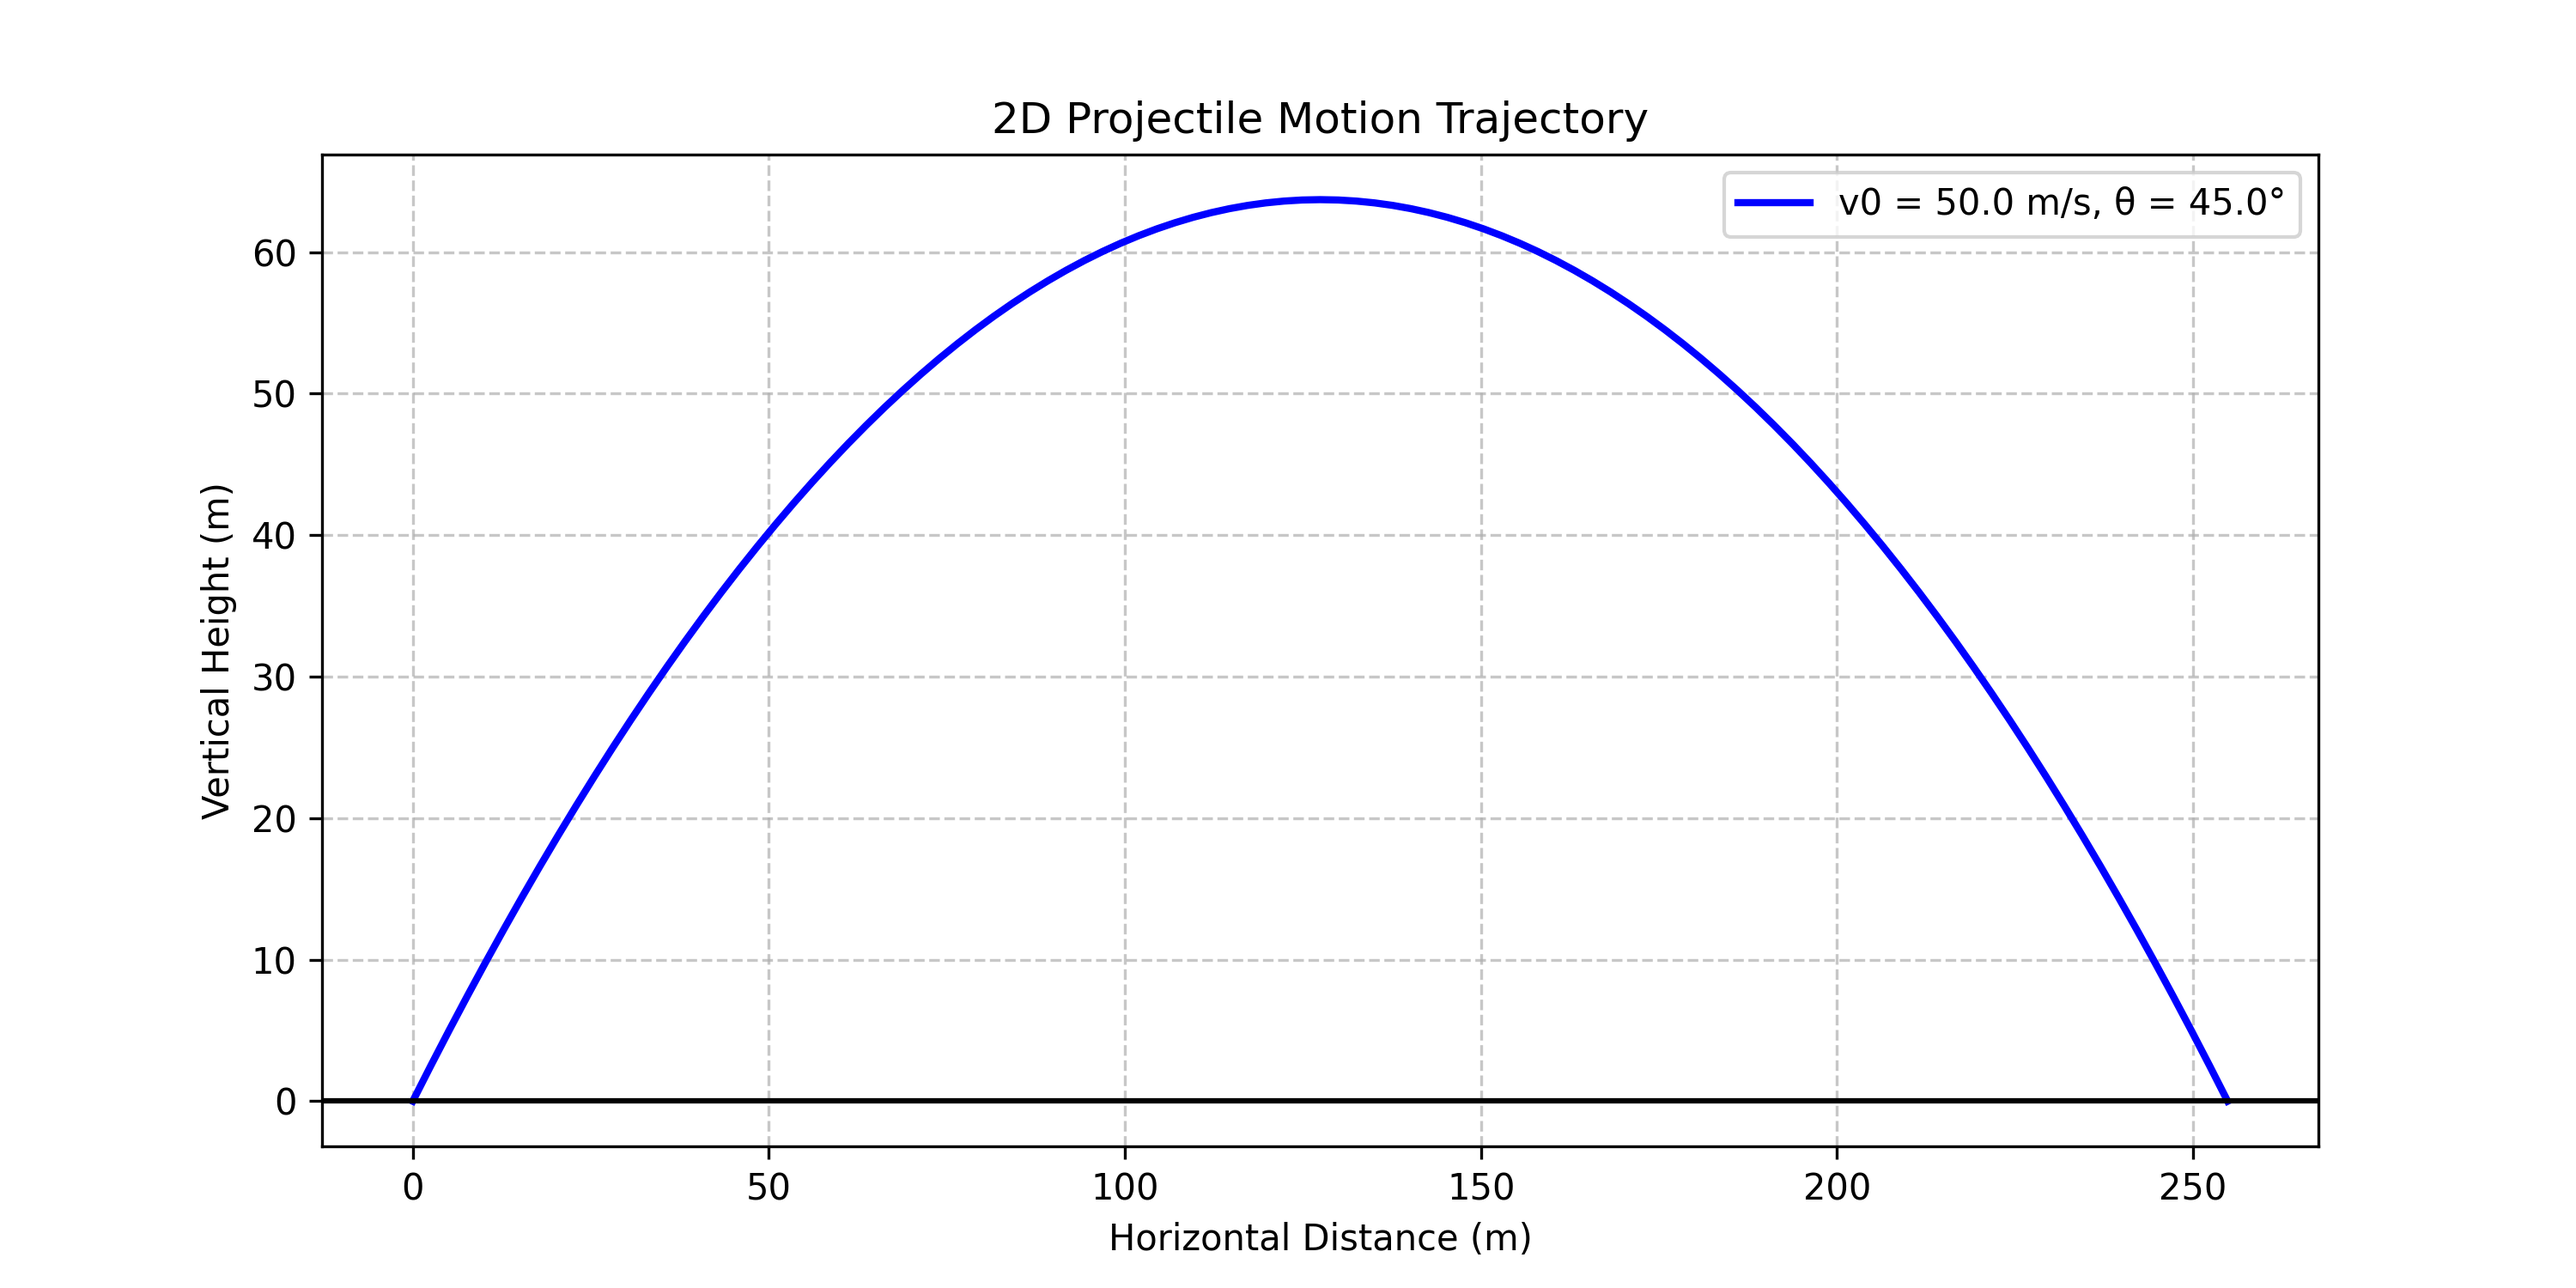
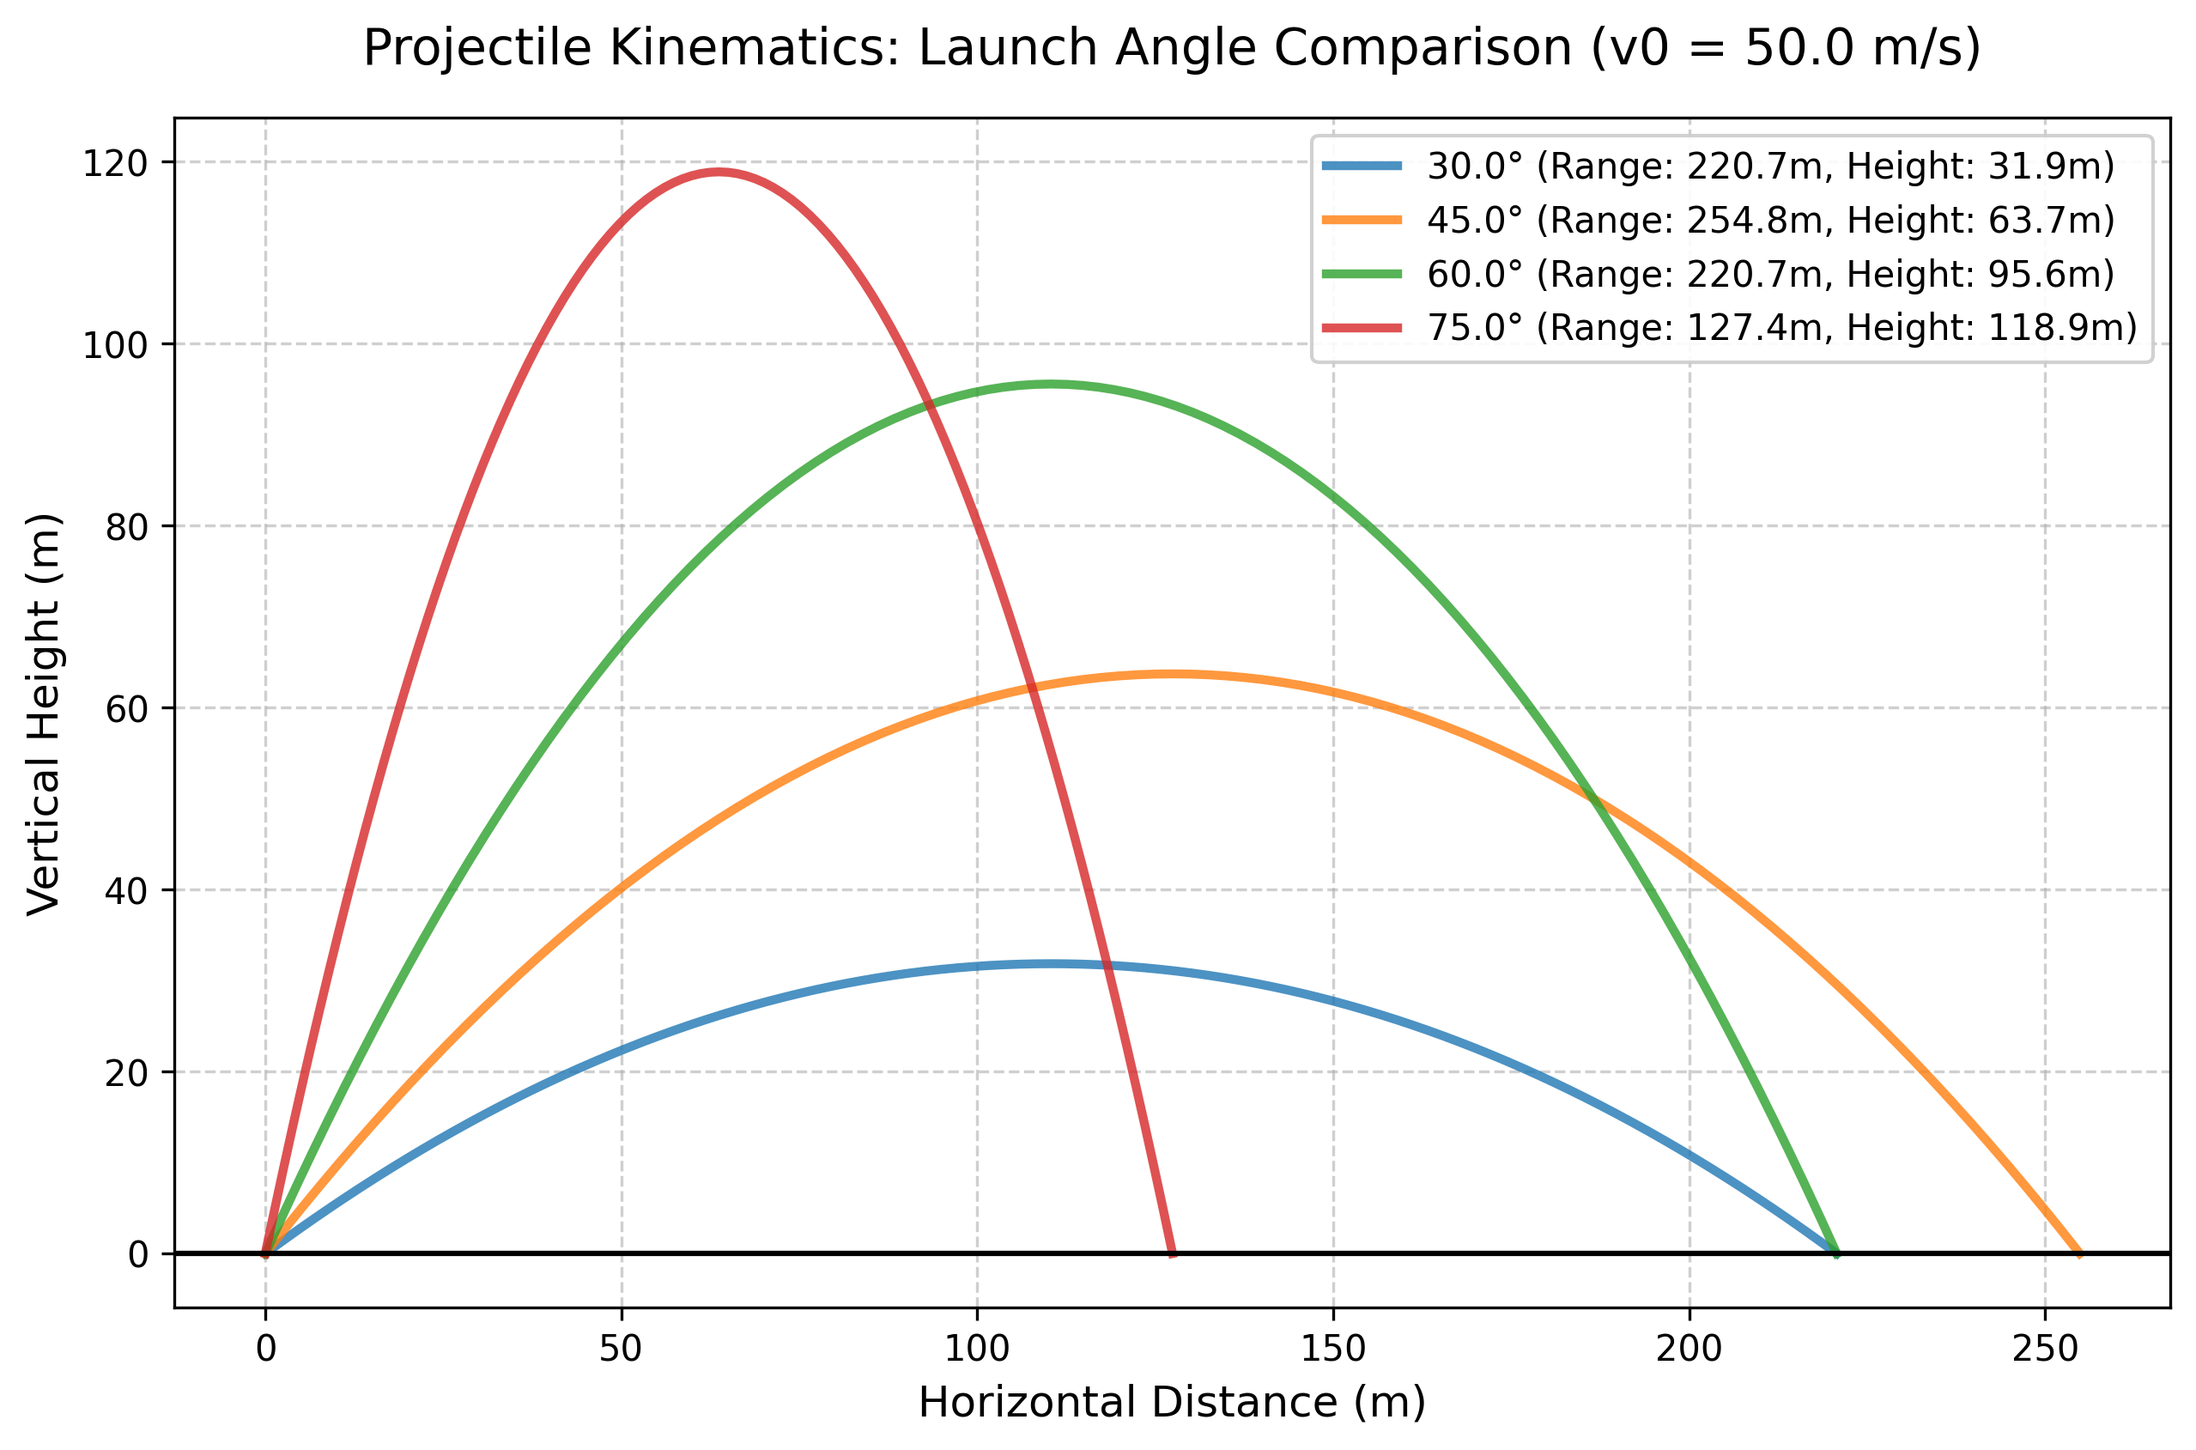
refactor: upgrade projectile visualization to support multiple angles comparison

diff --git a/02_Computational_Physics/plot_trajectory.py b/02_Computational_Physics/plot_trajectory.py
@@ -1,34 +1,49 @@
 # plot_trajectory.py
 import math
 import matplotlib.pyplot as plt
+from typing import List
 
-def plot_kinematics(v0: float, angle_degrees: float, gravity: float = 9.81):
+def plot_multiple_trajectories(v0: float, angles: List[float], gravity: float = 9.81):
     """
-    Simulates and visualizes a 2D projectile trajectory using matplotlib.
+    Visualizes multiple 2D projectile trajectories to compare launch angles.
+    Saves the output directly to the assets folder.
     """
-    angle_radians = math.radians(angle_degrees)
-    time_of_flight = (2 * v0 * math.sin(angle_radians)) / gravity
+    plt.figure(figsize=(10, 6))
     
-    # Generate data points for the trajectory
-    times = [t * (time_of_flight / 100) for t in range(101)]
-    x_vals = [v0 * math.cos(angle_radians) * t for t in times]
-    y_vals = [v0 * math.sin(angle_radians) * t - 0.5 * gravity * (t**2) for t in times]
+    # Define a cool color palette for the lines
+    colors = ['#1f77b4', '#ff7f0e', '#2ca02c', '#d62728', '#9467bd']
     
-    # Plotting logic
-    plt.figure(figsize=(10, 5))
-    plt.plot(x_vals, y_vals, label=f'v0 = {v0} m/s, θ = {angle_degrees}°', color='blue', linewidth=2)
+    for i, angle_degrees in enumerate(angles):
+        angle_radians = math.radians(angle_degrees)
+        time_of_flight = (2 * v0 * math.sin(angle_radians)) / gravity
+        
+        # Generate 100 data points for smooth curves
+        times = [t * (time_of_flight / 100) for t in range(101)]
+        x_vals = [v0 * math.cos(angle_radians) * t for t in times]
+        y_vals = [v0 * math.sin(angle_radians) * t - 0.5 * gravity * (t**2) for t in times]
+        
+        max_range = max(x_vals)
+        max_height = max(y_vals)
+        
+        # Plot each trajectory with a detailed label
+        plt.plot(x_vals, y_vals, 
+                 label=f'{angle_degrees}° (Range: {max_range:.1f}m, Height: {max_height:.1f}m)', 
+                 color=colors[i % len(colors)], linewidth=2.5, alpha=0.8)
     
-    plt.title("2D Projectile Motion Trajectory")
-    plt.xlabel("Horizontal Distance (m)")
-    plt.ylabel("Vertical Height (m)")
+    # Chart formatting
+    plt.title(f"Projectile Kinematics: Launch Angle Comparison (v0 = {v0} m/s)", fontsize=14, pad=15)
+    plt.xlabel("Horizontal Distance (m)", fontsize=12)
+    plt.ylabel("Vertical Height (m)", fontsize=12)
     plt.axhline(0, color='black', linewidth=1.5)
-    plt.grid(True, linestyle='--', alpha=0.7)
-    plt.legend()
+    plt.grid(True, linestyle='--', alpha=0.6)
+    plt.legend(loc="upper right", framealpha=0.9)
     
-    # Save the plot as an image instead of just showing it
-    plt.savefig("trajectory_visualization.png", dpi=300)
-    print("✅ Trajectory successfully plotted and saved as 'trajectory_visualization.png'!")
+    # Save directly to the assets folder so the README updates automatically!
+    plt.savefig("assets/trajectory_visualization.png", dpi=300, bbox_inches='tight')
+    print("✅ Multi-angle trajectory plot successfully saved to assets/!")
 
 if __name__ == "__main__":
-    print("--- 🚀 Initializing Trajectory Visualization ---")
-    plot_kinematics(v0=50.0, angle_degrees=45.0)
+    print("--- 🚀 Initializing Advanced Trajectory Visualization ---")
+    # Testing multiple angles at once!
+    test_angles = [30.0, 45.0, 60.0, 75.0]
+    plot_multiple_trajectories(v0=50.0, angles=test_angles)
